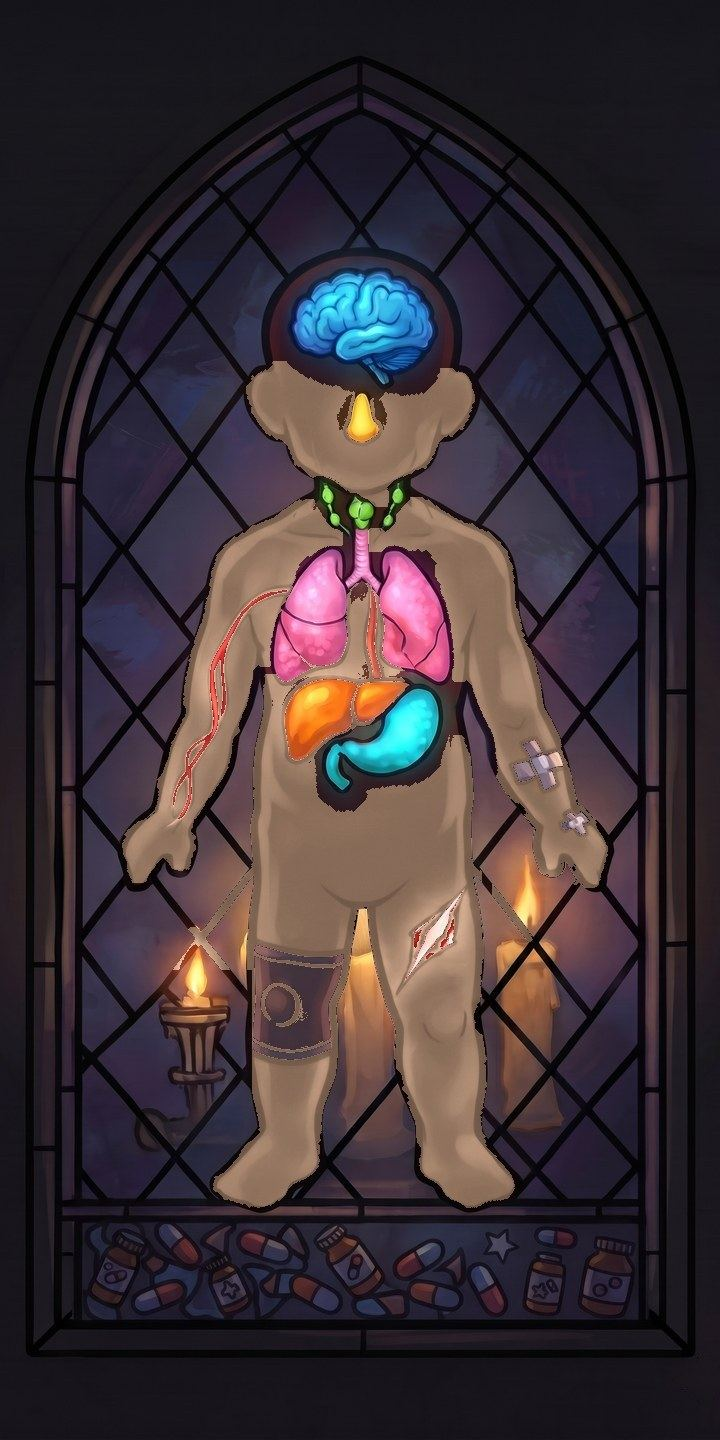
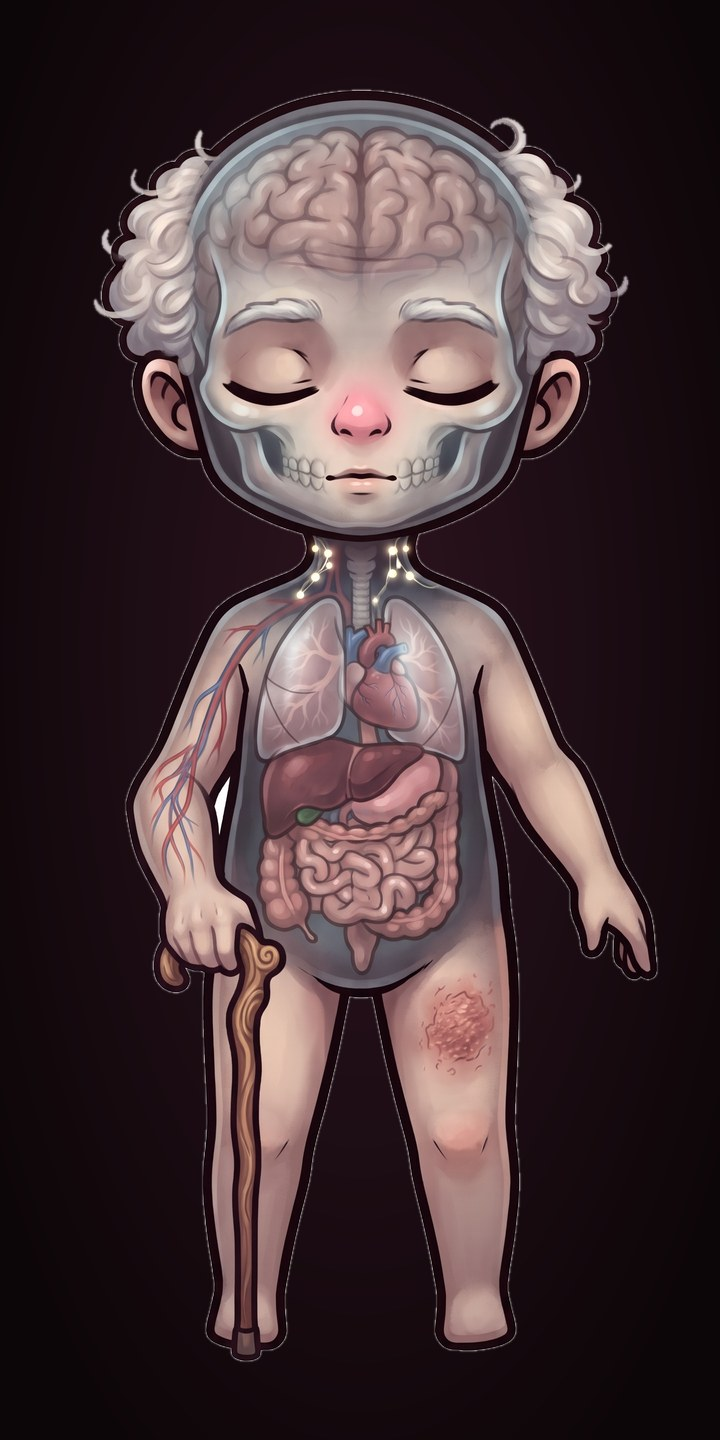
인체 지도 4장·이야기 3장 새 그림체로 교체, 기관 위치 다시 맞춤
Claude-Session: https://claude.ai/code/session_01NxXvvHffuwvNyfjUsgWtGb

diff --git a/index.html b/index.html
@@ -1016,12 +1016,13 @@ const HOST_RULE = [
 ];
 // 숙주별 인체 그림 (없으면 성인 그림) · zone은 200×400 좌표, anat은 지시선 끝점(%)
 const BODY = {
-  0: { img: 'bodymap_h0', zone: { brain: '<ellipse cx="101" cy="92" rx="27" ry="21"/>', nose: '<ellipse cx="100" cy="115" rx="17" ry="11"/>', lymph: '<ellipse cx="100" cy="141" rx="16" ry="8"/>',
-      lung: '<ellipse cx="101" cy="176" rx="34" ry="24"/>', liver: '<ellipse cx="91" cy="201" rx="19" ry="12"/>', gut: '<ellipse cx="108" cy="206" rx="20" ry="15"/>',
-      blood: '<ellipse cx="64" cy="197" rx="11" ry="40" transform="rotate(24 64 197)"/>', skin: '<ellipse cx="120" cy="268" rx="15" ry="26"/>' },
-    anat: { brain: [50.5, 23], nose: [50, 28.7], lymph: [49.8, 35.3], lung: [44, 44], liver: [45.5, 50.2], gut: [54, 51.5], blood: [32, 49.4], skin: [60, 67] } },
+  0: { img: 'bodymap_h0', zone: { brain: '<ellipse cx="100" cy="58" rx="44" ry="28"/>', nose: '<ellipse cx="100" cy="113" rx="11" ry="9"/>', lymph: '<ellipse cx="100" cy="155" rx="18" ry="8"/>',
+      lung: '<ellipse cx="100" cy="180" rx="30" ry="21"/>', liver: '<ellipse cx="92" cy="208" rx="22" ry="10"/>', gut: '<ellipse cx="101" cy="235" rx="29" ry="21"/>',
+      blood: '<ellipse cx="60" cy="207" rx="10" ry="42" transform="rotate(28 60 207)"/>', skin: '<ellipse cx="125" cy="285" rx="13" ry="15"/>' },
+    anat: { brain: [50, 14], nose: [50, 28.3], lymph: [50, 38.8], lung: [44, 45], liver: [44, 52], gut: [53, 59], blood: [30, 51.5], skin: [62.5, 71.3] } },
 };
-BODY[1] = { ...BODY[0], img: 'bodymap_h1' }; BODY[3] = { ...BODY[0], img: 'bodymap_h3' };   // 같은 포즈·구도로 받은 그림
+// 네 숙주 그림은 같은 자세·구도로 받아서 기관 위치가 같다
+BODY[1] = { ...BODY[0], img: 'bodymap_h1' }; BODY[2] = { ...BODY[0], img: 'bodymap_h2' }; BODY[3] = { ...BODY[0], img: 'bodymap_h3' };
 const bodyOf = () => { const b = BODY[save.host]; return b && has(b.img + '_skin') ? b : null; };
 const hostRule = () => HOST_RULE[save.host] || HOST_RULE[0];
 TOWERS.bcell = { name:'B세포 항체탑', range:120, dmg:4, rate:0.9, mode:'speed', multi:3, specific:true, antibody:true, color:'#5fe0d0', desc:'항원 특이 · 맞히면 항체 표식(받는 피해 +35%, 감속)' };
@@ -1071,9 +1072,9 @@ const NAMES = [...[0, 1, 2, 3, 4, 5].flatMap(i => ['vp_core_' + i, 'vp_spike_' +
   ...['rhino','adeno','noro','herpes','flu','rota','retro','rabies','rsv','measles','hepb','hpv'].flatMap(s => [s + '_A', s + '_B']),
   ...['zero','mimi','phage'].flatMap(h => ['hero_' + h, 'hero_' + h + '10', 'hero_' + h + '15']), 'aura','forge','forge_ok','forge_fail','enzyme',
   ...['nose','lung','gut','liver','blood','skin','lymph','brain'].map(o => 'goal_' + o), ...['nose','lung','gut','liver','blood','skin','lymph','brain'].map(o => 'boss_' + o), 'boss_wk_capsule', 'boss_wk_tablet', 'boss_wk_twin', 'switch_a','switch_b','barricade','valve_open','valve_closed','pill','alarm','escort',
-  'gacha_bg','bodymap_skin','bodymap_h0_skin','bodymap_h1_skin','bodymap_h3_skin','ring_common','ring_rare','ring_hero','ring_new','fx_sneeze','jar','jar_sealed','jar_broken','glove','bodymap',
+  'gacha_bg','bodymap_skin','bodymap_h0_skin','bodymap_h1_skin','bodymap_h2_skin','bodymap_h3_skin','ring_common','ring_rare','ring_hero','ring_new','fx_sneeze','jar','jar_sealed','jar_broken','glove','bodymap',
   ...Object.keys({ inf:1, hp:1, cnt:1, cd:1, dna:1, forge:1, capsule:1, combo:1 }).map(k => 'perk_' + k), 'tab_body','tab_lab','tab_hero','codex','deploy_all','combo','legacy','lock','ebola','corona','hero_smallpox','flu1918', ...Object.keys(NEWV),'intro_bg','story_2','story_3', ...[0, 1, 2, 3].map(i => 'vp_core_L' + i)];
-const JPG = new Set(['story_2', 'story_3', 'intro_bg', 'ground', 'dirt', 'gacha_bg', 'bodymap', 'bodymap_skin', 'bodymap_h0_skin', 'bodymap_h1_skin', 'bodymap_h3_skin']);
+const JPG = new Set(['story_2', 'story_3', 'intro_bg', 'ground', 'dirt', 'gacha_bg', 'bodymap', 'bodymap_skin', 'bodymap_h0_skin', 'bodymap_h1_skin', 'bodymap_h2_skin', 'bodymap_h3_skin']);
 const has = n => IMG[n] && IMG[n].naturalWidth > 0;
 function loadAssets() {
   return Promise.all(NAMES.map(n => new Promise(res => {
